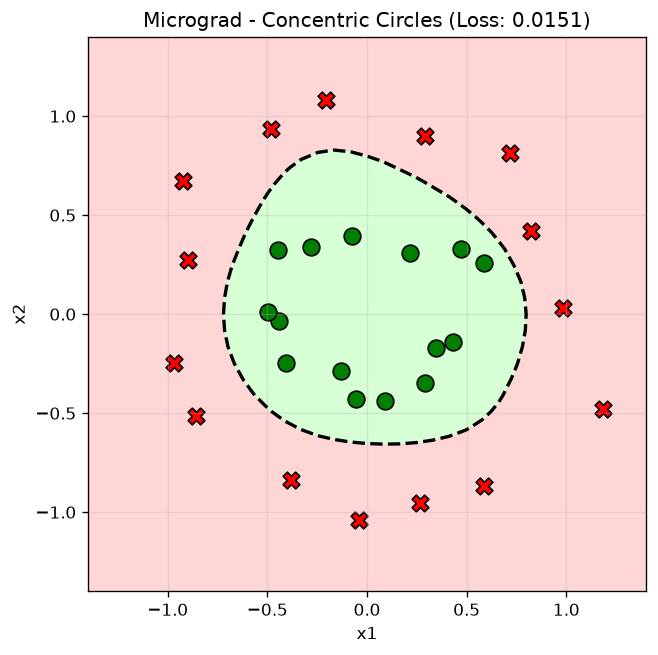
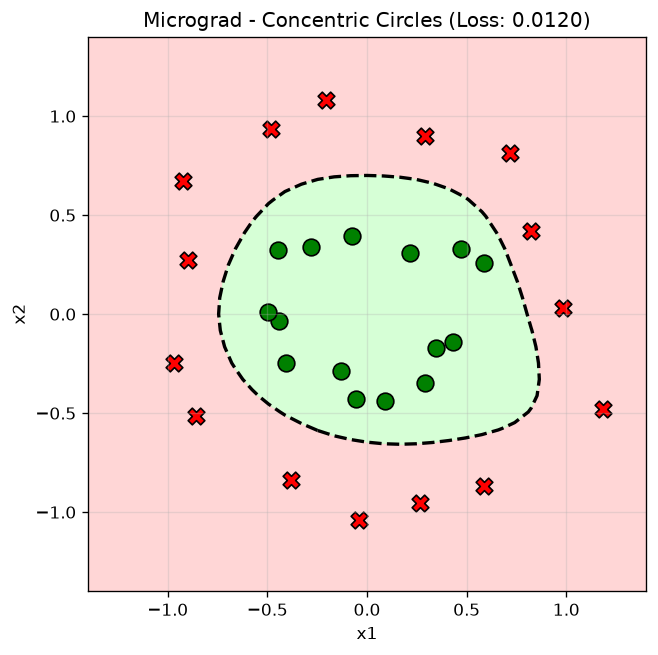
Compare w Pytorch and update README

diff --git a/main_pytorch.py b/main_pytorch.py
@@ -1,0 +1,110 @@
+import matplotlib.pyplot as plt
+import numpy as np
+import torch
+import torch.nn as nn
+import torch.optim as optim
+from sklearn.datasets import make_circles
+
+torch.manual_seed(42)
+np.random.seed(42)
+
+X, y = make_circles(n_samples=30, factor=0.4, noise=0.08, random_state=42)
+xs = X.tolist()
+ys = [1.0 if label == 1 else -1.0 for label in y]
+
+X_tensor = torch.tensor(xs, dtype=torch.float32)
+y_tensor = torch.tensor(ys, dtype=torch.float32).unsqueeze(1)
+
+
+class PyTorchMLP(nn.Module):
+
+  def __init__(self):
+    super().__init__()
+    self.net = nn.Sequential(
+        nn.Linear(2, 8),
+        nn.Tanh(),
+        nn.Linear(8, 8),
+        nn.Tanh(),
+        nn.Linear(8, 1),
+        nn.Tanh(),
+    )
+
+  def forward(self, x):
+    return self.net(x)
+
+
+model = PyTorchMLP()
+
+total_params = sum(p.numel() for p in model.parameters())
+print(
+    f"Tổng số tham số (weights + biases) của mạng PyTorch: {total_params}\n"
+)
+
+learning_rate = 0.15
+epochs = 200
+optimizer = optim.SGD(model.parameters(), lr=learning_rate)
+criterion = nn.MSELoss()
+
+for epoch in range(epochs):
+  optimizer.zero_grad()
+  ypred = model(X_tensor)
+  loss = criterion(ypred, y_tensor)
+
+  loss.backward()
+  optimizer.step()
+
+  if epoch % 20 == 0 or epoch == epochs - 1:
+    with torch.no_grad():
+      preds = (ypred > 0).float()
+      targets = (y_tensor > 0).float()
+      correct = (preds == targets).sum().item()
+      acc = (correct / len(ys)) * 100
+    print(
+        f"Epoch {epoch:3d} | Mean Loss: {loss.item():.6f} | Accuracy:"
+        f" {correct}/{len(ys)} ({acc:.1f}%)"
+    )
+
+print("\n--- KẾT QUẢ SAU KHI HUẤN LUYỆN ---")
+model.eval()
+with torch.no_grad():
+  ypred_final = model(X_tensor)
+  for i in range(5):
+    print(
+        f"Mẫu {i+1}: Tọa độ ({xs[i][0]:+.2f}, {xs[i][1]:+.2f}) -> Nhãn thật:"
+        f" {ys[i]:+.1f} | Dự đoán: {ypred_final[i].item():+.4f}"
+    )
+
+grid_size = 35
+xx, yy = np.meshgrid(
+    np.linspace(-1.4, 1.4, grid_size), np.linspace(-1.4, 1.4, grid_size)
+)
+grid_points = np.c_[xx.ravel(), yy.ravel()]
+grid_tensor = torch.tensor(grid_points, dtype=torch.float32)
+
+with torch.no_grad():
+  Z_pred = model(grid_tensor).numpy().reshape(xx.shape)
+
+plt.figure(figsize=(6, 6))
+plt.contourf(
+    xx,
+    yy,
+    Z_pred,
+    levels=[-1.5, 0.0, 1.5],
+    colors=['#ffcccc', '#ccffcc'],
+    alpha=0.8,
+)
+plt.contour(
+    xx, yy, Z_pred, levels=[0.0], colors='black', linewidths=2, linestyles='--'
+)
+
+for (x1, x2), label in zip(xs, ys):
+  color = 'green' if label == 1.0 else 'red'
+  marker = 'o' if label == 1.0 else 'X'
+  plt.scatter(x1, x2, color=color, s=100, edgecolors='black', marker=marker)
+
+plt.title(f"PyTorch - Concentric Circles (Loss: {loss.item():.4f})")
+plt.xlabel("x1")
+plt.ylabel("x2")
+plt.grid(True, alpha=0.3)
+plt.savefig("decision_boundary_pytorch.png", dpi=120, bbox_inches='tight')
+print("\nĐã lưu biểu đồ trực quan vào file 'decision_boundary_pytorch.png'!")

diff --git a/main.py b/main.py
@@ -5,8 +5,8 @@ from sklearn.datasets import make_circles
 from engine import Value
 from nn import MLP
 
-random.seed(40)
-np.random.seed(40)
+random.seed(42)
+np.random.seed(42)
 
 X, y = make_circles(n_samples=30, factor=0.4, noise=0.08, random_state=42)
 xs = X.tolist()
@@ -16,7 +16,7 @@ model = MLP(2, [8, 8, 1])
 print(f"Tổng số tham số (weights + biases) của mạng: {len(model.parameters())}\n")
 
 learning_rate = 0.15
-epochs = 50
+epochs = 200
 
 for epoch in range(epochs):
     ypred = [model(x) for x in xs]

diff --git a/README.md b/README.md
@@ -1,28 +1,47 @@
-# MicroGradient 🧠
+# MicroGradient 
 
-Mạng nơ-ron (MLP) tối giản viết bằng Python ([micrograd](https://github.com/karpathy/micrograd)), phục vụ mục đích học tập cơ chế lan truyền ngược (backpropagation) và tính toán gradient tự động.
+Mạng nơ-ron đa tầng (MLP) và cơ chế lan truyền ngược (backpropagation / autograd engine) tối giản viết bằng Python thuần (lấy cảm hứng từ [micrograd](https://github.com/karpathy/micrograd)), song song với phiên bản đối chứng triển khai bằng thư viện **PyTorch**.
 
 Dự án áp dụng thử nghiệm trên **bài toán phi tuyến phân loại điểm hình tròn đồng tâm 2D** (`concentric circles`).
 
 ---
 
-## 🎯 Kết quả trực quan
+## Kết quả trực quan & So sánh
 
-Mô hình phân loại nhị phân các điểm thuộc 2 vòng tròn đồng tâm (tập dữ liệu `make_circles` từ `scikit-learn`). Đường phân chia phi tuyến (decision boundary) học được sau 200 epochs:
+Mô hình phân loại nhị phân các điểm thuộc 2 vòng tròn đồng tâm (tập dữ liệu `make_circles` từ `scikit-learn`). Đường phân chia phi tuyến (decision boundary) học được sau **200 epochs** (`learning_rate = 0.15`):
 
-<p align="center">
-  <img src="decision_boundary.png" alt="Decision Boundary" width="500"/>
-</p>
+| Micrograd (Python) | PyTorch |
+| :---: | :---: |
+| <img src="decision_boundary.png" alt="Decision Boundary Micrograd" width="400"/> | <img src="decision_boundary_pytorch.png" alt="Decision Boundary PyTorch" width="400"/> |
+| **Loss:** ~0.012 \| **Accuracy:** 100% (30/30) | **Loss:** ~0.038 \| **Accuracy:** 100% (30/30) |
 
 - **Kiến trúc mạng**: MLP 2 lớp ẩn `[2, 8, 8, 1]` (tổng cộng 105 tham số weights & biases).
 - **Hàm kích hoạt**: `tanh`.
 - **Hàm mất mát**: Mean Squared Error (MSE).
-- **Kết quả**: Đạt độ chính xác **100% (30/30 mẫu)**.
+- **Trình tối ưu**: Gradient Descent (SGD) với `lr = 0.15`.
+
 ---
 
-## 🚀 Cài đặt & Chạy thử nghiệm
+## Cấu trúc thư mục
 
-### 1. Khởi tạo môi trường ảo
+```text
+MicroGradient/
+├── engine.py                   # Lớp Value hỗ trợ scalar autograd & đồ thị tính toán
+├── nn.py                       # Các module Neuron, Layer, MLP (thuần Python)
+├── main.py                     # Huấn luyện mô hình bằng Micrograd tự xây dựng
+├── main_pytorch.py             # Huấn luyện mô hình đối chứng bằng PyTorch
+├── requirements.txt            # Danh sách thư viện phụ thuộc
+├── decision_boundary.png       # Biểu đồ kết quả Micrograd
+├── decision_boundary_pytorch.png # Biểu đồ kết quả PyTorch
+├── .gitignore                  # Bỏ qua venv, cache và file hệ thống
+└── README.md                   # Tài liệu hướng dẫn dự án
+```
+
+---
+
+## Cài đặt & Chạy thử nghiệm
+
+### 1. Khởi tạo & Kích hoạt môi trường ảo
 
 ```bash
 # Windows
@@ -34,17 +53,22 @@ python3 -m venv venv
 source venv/bin/activate
 ```
 
-### 2. Cài đặt thư viện
+### 2. Cài đặt các thư viện cần thiết
 
 ```bash
 pip install -r requirements.txt
 ```
 
-### 3. Huấn luyện mô hình
+### 3. Chạy thử nghiệm
 
-```bash
-python main.py
-```
+- **Chạy phiên bản Micrograd (Python thuần):**
+  ```bash
+  python main.py
+  ```
+  *(Biểu đồ ranh giới phân loại sẽ được lưu vào file `decision_boundary.png`)*
 
-Sau khi chạy xong, chương trình sẽ in quá trình huấn luyện theo từng epoch và xuất file biểu đồ `decision_boundary.png`.
-
+- **Chạy phiên bản PyTorch:**
+  ```bash
+  python main_pytorch.py
+  ```
+  *(Biểu đồ ranh giới phân loại sẽ được lưu vào file `decision_boundary_pytorch.png`)*
